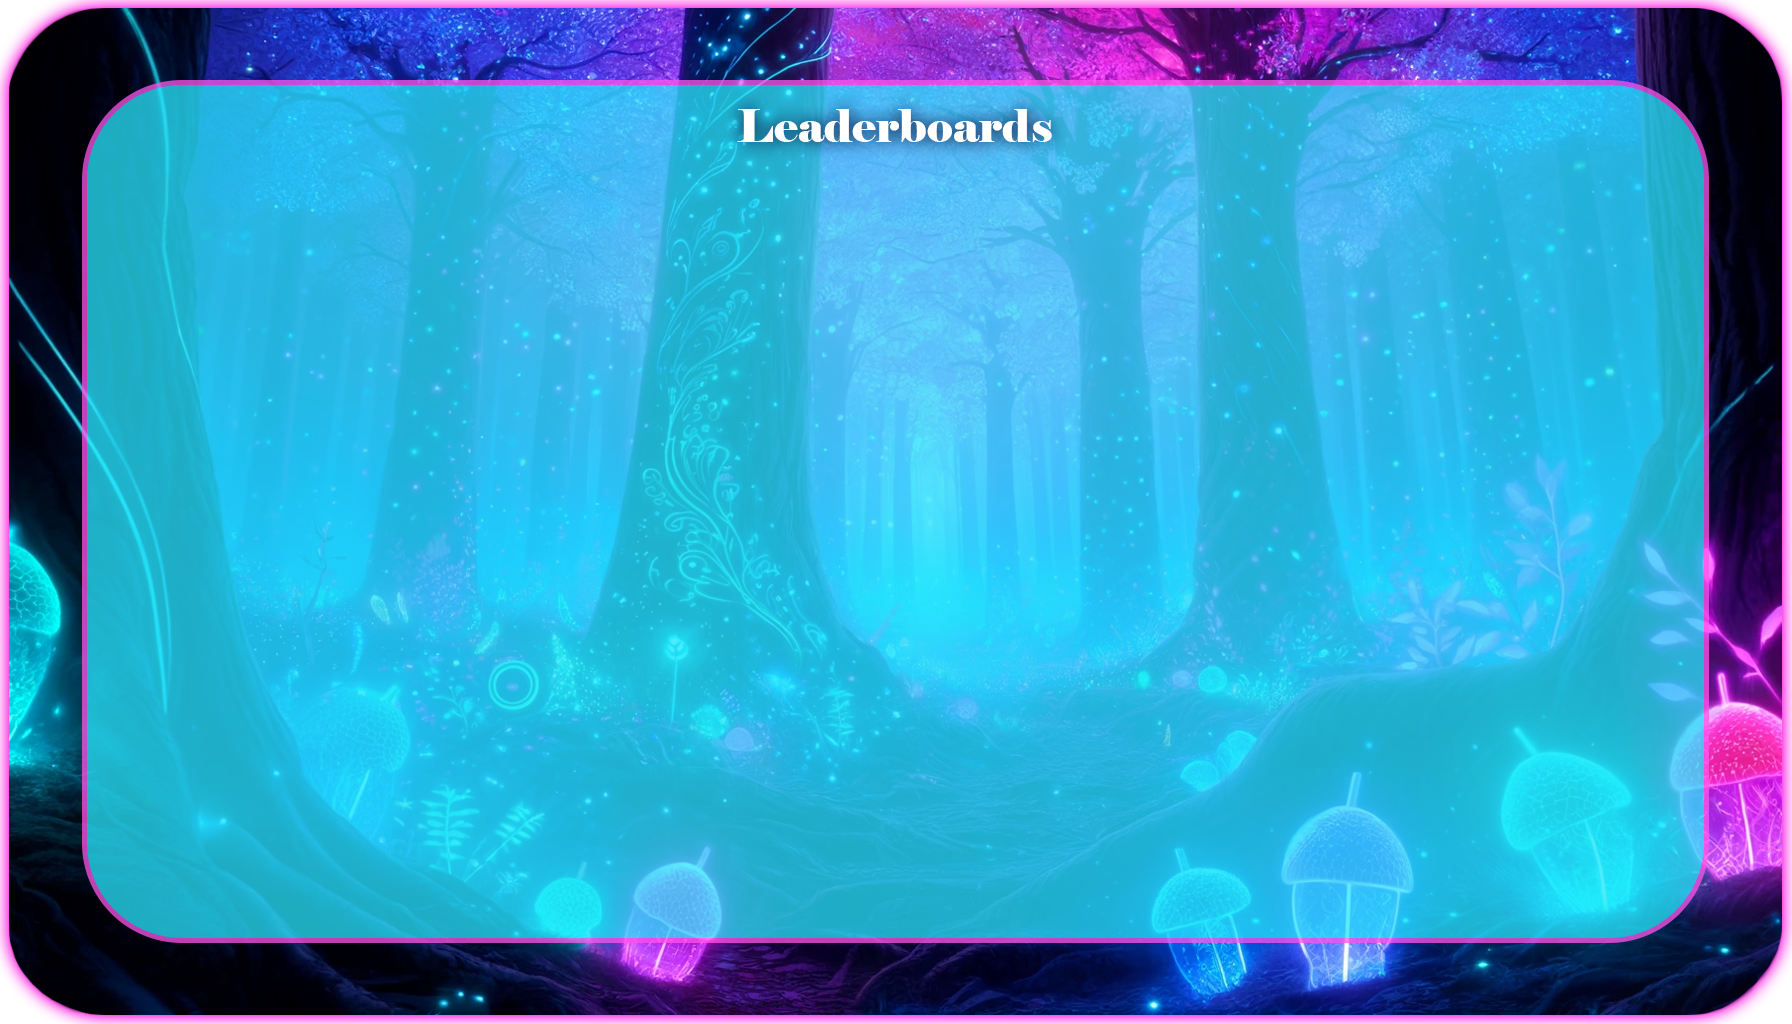
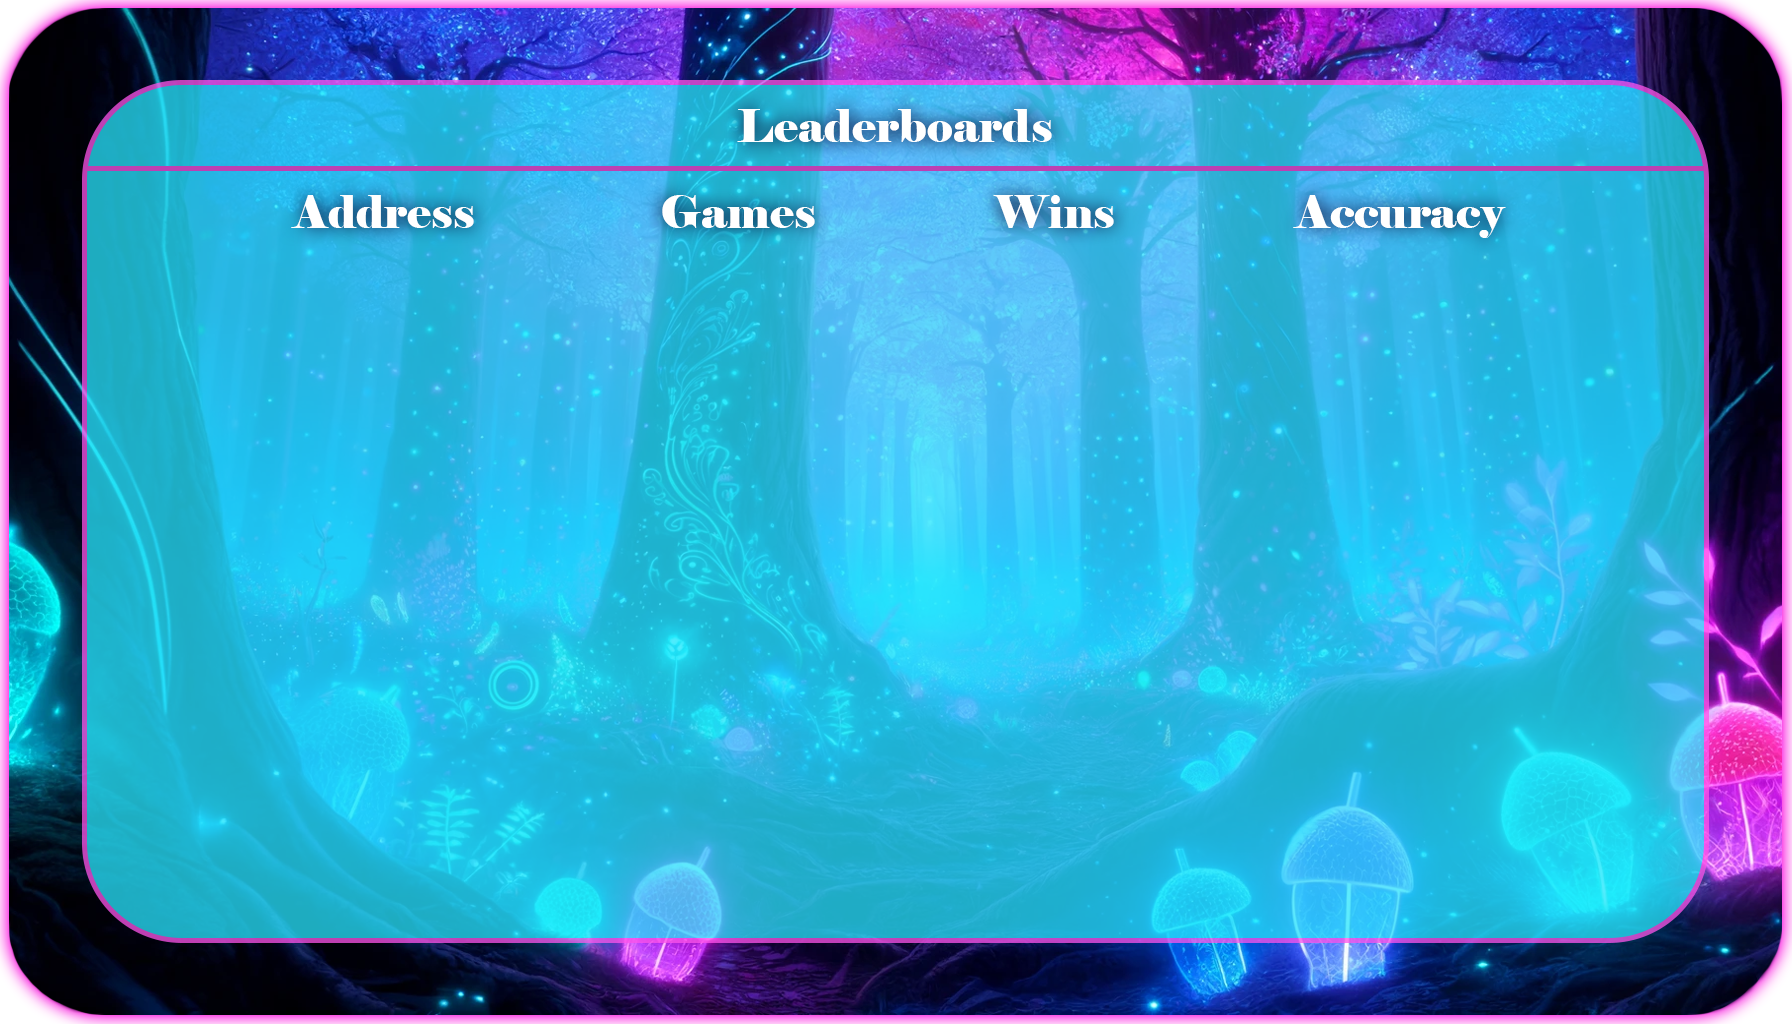
fix join game, leaderboards

Changed region(s): [[0.0625, 0.1562, 0.9375, 0.25]]

diff --git a/src/ui.tsx b/src/ui.tsx
@@ -3,12 +3,14 @@ import ReactEcs, { Label, Button, Input, ReactEcsRenderer, UiEntity } from '@dcl
 import { AudioSource, engine } from '@dcl/sdk/ecs'
 import {
   Game,
+  LeaderboardEntry,
   WebsocketEvents,
   callBingo,
   clickCell,
   createGame,
   getActiveGamesList,
   getGame,
+  getLeaderboard,
   getLoginCode,
   joinGame,
   nukeGame,
@@ -50,6 +52,8 @@ let currentGameListIndex = 0
 let currentGames: Game[] = []
 
 let gamePaused = true
+
+let leaderboard: LeaderboardEntry[] = []
 
 const bingoSoundEntity = engine.addEntity()
 AudioSource.create(bingoSoundEntity, {
@@ -361,7 +365,10 @@ const uiComponent = () => (
         value=""
         variant="secondary"
         fontSize={18}
-        onMouseDown={() => {
+        onMouseDown={ async () => {
+          leaderboard = await getLeaderboard()
+          console.log(leaderboard)
+
           showMenu = false
           showLeaderboardsMenu = true
         }}
@@ -381,8 +388,8 @@ const uiComponent = () => (
         justifyContent: 'flex-end',
         positionType: 'absolute',
         position: {
-          right: '1%',
-          bottom: '1%'
+          right: '10%',
+          bottom: '10%'
         },
         width: 1254.4,
         height: 716.8
@@ -444,13 +451,16 @@ const uiComponent = () => (
                 fontSize={24}
                 onMouseDown={async () => {
                   const myPlayer = getPlayer()
+                  if (!myPlayer) return
                   if (
-                    currentGames.map((game) => Object.keys(game.players).includes(myPlayer?.userId || '')) &&
-                    !Object.keys(game.players).includes(myPlayer?.userId || '')
+                    currentGames.some((game) => Object.keys(game.players).includes(myPlayer.userId)) &&
+                    !Object.keys(game.players).includes(myPlayer.userId)
                   ) {
                     playerInAnotherGame = handlePlayerInAnotherGame(currentGames)
                     showJoinGameMenu = false
                     console.log('playerInAnotherGame', playerInAnotherGame)
+                    console.log(currentGames.some((game) => Object.keys(game.players).includes(myPlayer.userId)))
+                    console.log(!Object.keys(game.players).includes(myPlayer.userId))
                     return
                   }
 
@@ -536,7 +546,7 @@ const uiComponent = () => (
           width: 279.75,
           height: 61.5,
           margin: {
-            bottom: `7%`
+            bottom: '2.4%'
           }
         }}
         uiBackground={{
@@ -628,7 +638,7 @@ const uiComponent = () => (
         onMouseDown={async () => {
           const adminName = getPlayer()
           console.log('adminName', adminName)
-          await createGame(newGameName, 10, adminName?.name || 'Guest')
+          await createGame(newGameName, 0.5, adminName?.name || 'Guest')
           showMenu = true
           showNewGameMenu = false
         }}

diff --git a/src/utils.ts b/src/utils.ts
@@ -134,6 +134,24 @@ export async function callBingo(gameId: string) {
   return JSON.parse(body) as { success: boolean; message: string }
 }
 
+export async function getLeaderboard() {
+  const res = await signedFetch({
+    url: 'https://bingo.dcl.guru/leaderboard',
+    init: {
+      method: 'GET',
+      headers: {}
+    }
+  })
+  const body = await res.body
+  return JSON.parse(body) as LeaderboardEntry[]
+}
+
+export interface LeaderboardEntry {
+  address: string
+  games: number
+  wins: number
+  accuracy: number
+}
 export interface Game {
   name: string
   id: string
